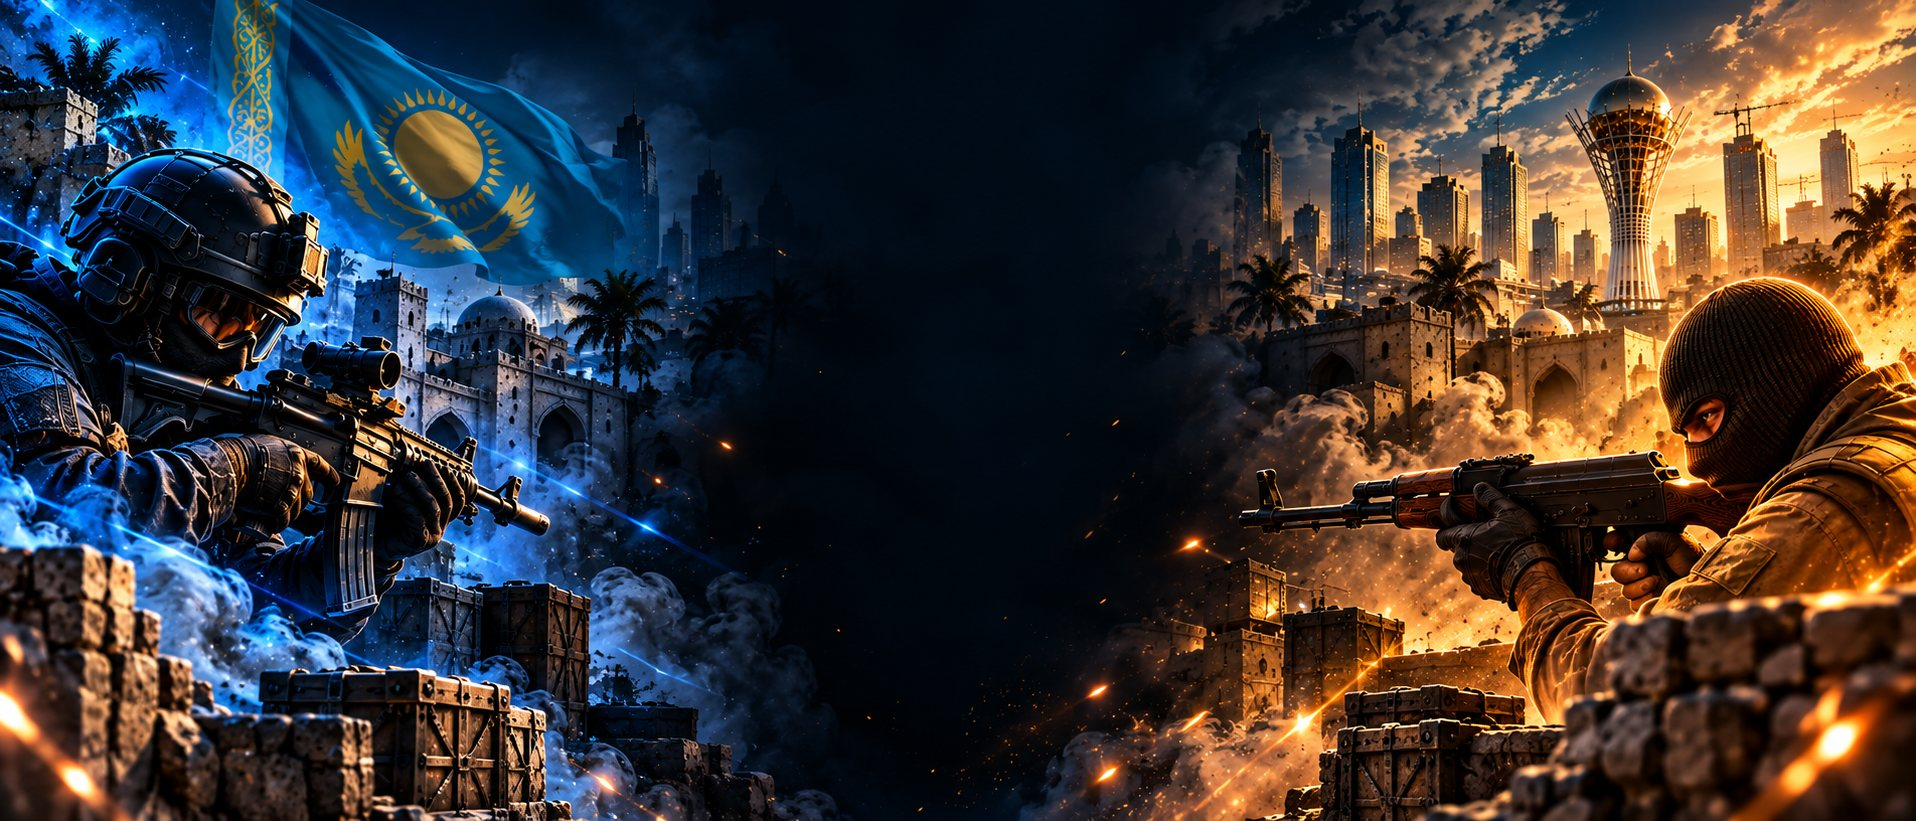
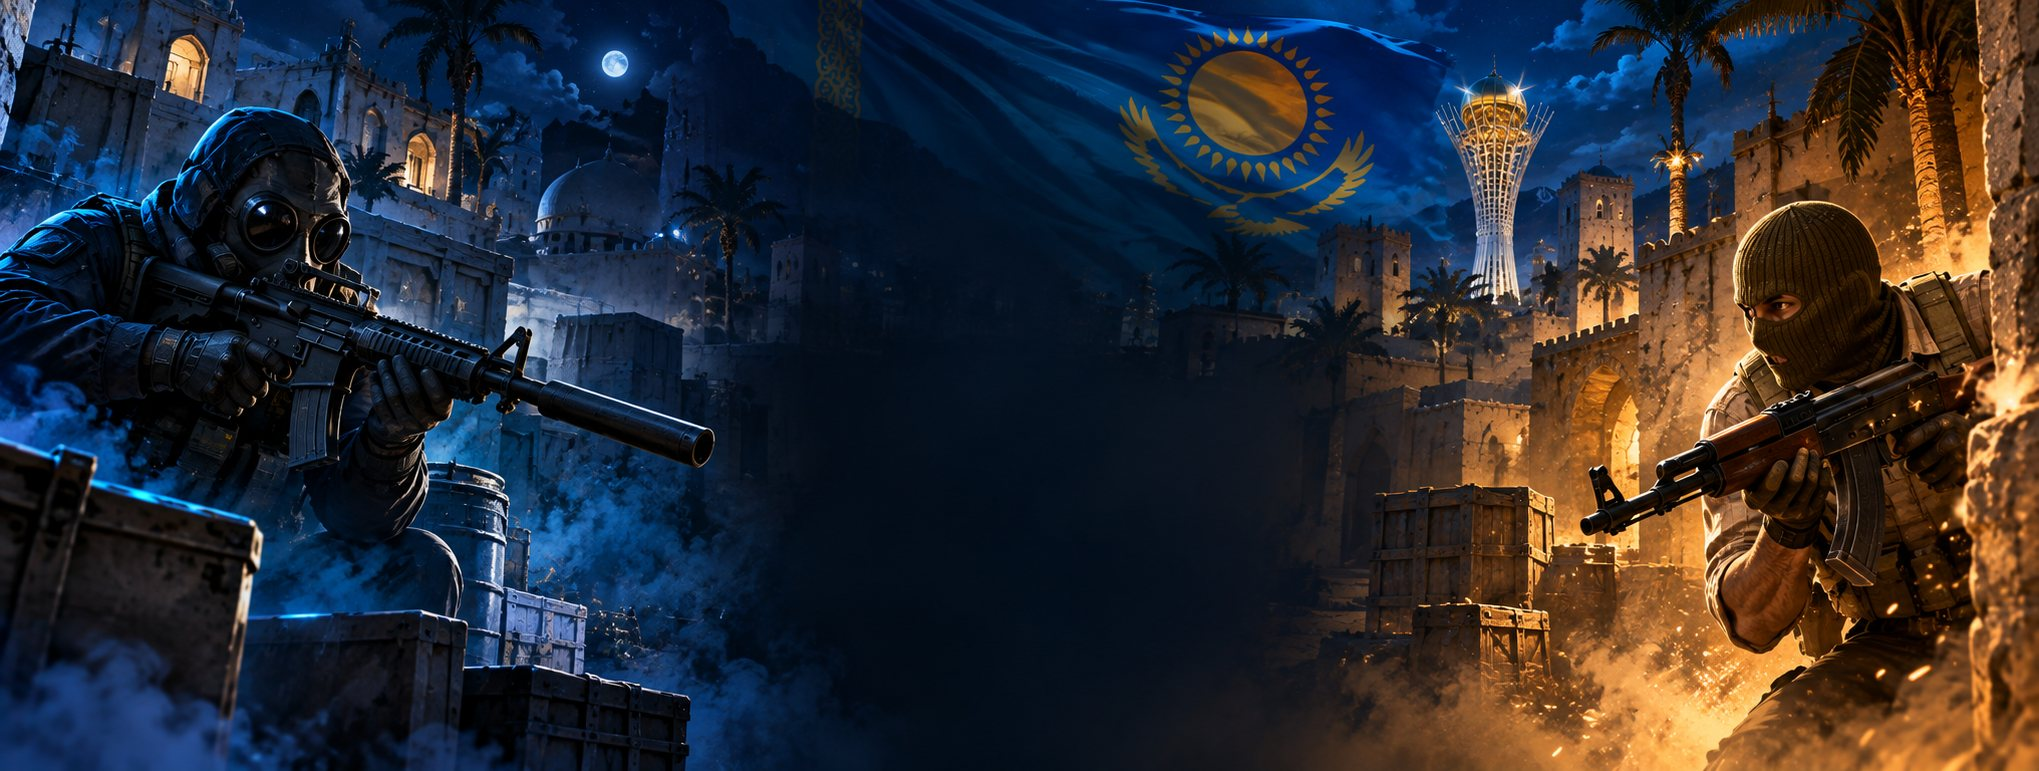
Add files via upload

diff --git a/admin.html b/admin.html
@@ -575,7 +575,7 @@ html { scroll-padding-top: 76px; }
 body:not(.admin) { background: transparent; }
 html { background: #06111f; }
 .page-bg { position: fixed; inset: 0; z-index: -1; background: #06111f; overflow: hidden; pointer-events: none; }
-.page-bg::before { content: ""; position: absolute; left: 0; right: 0; top: 50%; height: max(calc(100vw * 0.4), 70vh); transform: translateY(-50%); background: var(--bg-d, url(bg.jpg)) center / cover no-repeat;
+.page-bg::before { content: ""; position: absolute; left: 0; right: 0; top: 50%; height: max(calc(100vw * 0.4), 70vh); transform: translateY(-50%); background: var(--bg-d, url(bg.jpg?v=3)) center / cover no-repeat;
   -webkit-mask-image: linear-gradient(transparent, #000 12%, #000 88%, transparent); mask-image: linear-gradient(transparent, #000 12%, #000 88%, transparent); }
 .page-bg::after { content: ""; position: absolute; inset: 0; background: linear-gradient(90deg, rgba(6,17,31,0) 0%, rgba(6,17,31,.25) 22%, rgba(6,17,31,.5) 50%, rgba(6,17,31,.25) 78%, rgba(6,17,31,0) 100%); }
 body:not(.admin) .wrap { max-width: 980px; }
@@ -592,9 +592,9 @@ body:not(.admin) :is(.focus-card, .gtable, .tour, .match, .srow, .team-card, .pr
 @media (prefers-color-scheme: light) {
   :root:not([data-theme="dark"]) body:not(.admin) { --panel: rgba(255,255,255,.86); --panel-2: rgba(232,236,241,.9); --line: #d9dee5; }
   :root:not([data-theme="dark"]) .page-bg::after { background: rgba(238,241,244,.8); }
-  :root:not([data-theme="dark"]) .hero4 { background: #06111f url(bg.jpg) center / 100% auto no-repeat; }
+  :root:not([data-theme="dark"]) .hero4 { background: #06111f url(bg.jpg?v=3) center / 100% auto no-repeat; }
 }
-:root[data-theme="light"] .hero4 { background: #06111f url(bg.jpg) center / 100% auto no-repeat; }
+:root[data-theme="light"] .hero4 { background: #06111f url(bg.jpg?v=3) center / 100% auto no-repeat; }
 
 .hero4 { position: relative; min-height: calc(100svh - 61px); display: flex; align-items: center; color: #ece6d8; }
 .hero4-in { width: 100%; text-align: center; padding-top: 40px; padding-bottom: 48px; display: flex; flex-direction: column; align-items: center; }
@@ -764,7 +764,7 @@ body:not(.admin) .teams { grid-template-columns: repeat(auto-fill, minmax(280px,
 .h-cs { font-size: clamp(42px, 7vw, 106px); margin-top: .02em; }
 .h-sub { letter-spacing: .2em; }
 @media (max-width: 760px) {
-  .page-bg::before { background-image: var(--bg-m, var(--bg-d, url(bg.jpg))); background-position: 50% 50%; opacity: .75; }
+  .page-bg::before { background-image: var(--bg-m, var(--bg-d, url(bg.jpg?v=3))); background-position: 50% 50%; opacity: .75; }
   .hero4 { display: flex; min-height: calc(100svh - 55px); color: #ece6d8; }
   .hero4-in { padding-top: 22px; padding-bottom: 28px; }
   .hero4-in > .crown, .hero4-in > .h-sub, .hero4-in > .h-info, .hero4-in > .h-total, .hero4-in > .orgs { display: flex; }
@@ -806,14 +806,14 @@ body:not(.admin) .site-top-in { max-width: 1240px; }
 .hero-mark { width: 92px; height: auto; filter: drop-shadow(0 0 22px rgba(232,184,78,.28)); margin-bottom: 4px; }
 .hero4-in > .hero-mark { animation-delay: 0s; }
 @media (max-width: 760px) {
-  .page-bg::before { background-image: var(--bg-m, url(bg-m.jpg)); background-position: 50% 50%; opacity: 1; height: 100%; top: 0; transform: none; }
+  .page-bg::before { background-image: var(--bg-m, url(bg-m.jpg?v=3)); background-position: 50% 50%; opacity: 1; height: 100%; top: 0; transform: none; }
   .hero-mark { width: 64px; }
   .brand-logo img { width: 30px; height: 30px; }
 }
 
 /* ---------- Дневной режим с отдельными фонами ---------- */
 :root[data-theme="light"] .page-bg { background: #e9eef3; }
-:root[data-theme="light"] .page-bg::before { background-image: var(--bg-dd, url(bg-day.jpg)); height: max(calc(100vw * 0.451), 70vh); -webkit-mask-image: linear-gradient(transparent, #000 8%, #000 92%, transparent); mask-image: linear-gradient(transparent, #000 8%, #000 92%, transparent); }
+:root[data-theme="light"] .page-bg::before { background-image: var(--bg-dd, url(bg-day.jpg?v=3)); height: max(calc(100vw * 0.451), 70vh); -webkit-mask-image: linear-gradient(transparent, #000 8%, #000 92%, transparent); mask-image: linear-gradient(transparent, #000 8%, #000 92%, transparent); }
 :root[data-theme="light"] .page-bg::after { background: linear-gradient(90deg, rgba(255,255,255,0) 0%, rgba(255,255,255,.12) 30%, rgba(255,255,255,.22) 50%, rgba(255,255,255,.12) 70%, rgba(255,255,255,0) 100%); }
 :root[data-theme="light"] body:not(.admin) { --panel: rgba(255,255,255,.94); --panel-2: rgba(236,240,245,.95); }
 :root[data-theme="light"] .hero4 { color: #0f2742; background: none; }
@@ -842,7 +842,7 @@ body:not(.admin) .site-top-in { max-width: 1240px; }
 :root[data-theme="light"] .edge { stroke: #5d6b7c; }
 @media (prefers-color-scheme: light) {
 :root:not([data-theme="dark"]) .page-bg { background: #e9eef3; }
-:root:not([data-theme="dark"]) .page-bg::before { background-image: var(--bg-dd, url(bg-day.jpg)); height: max(calc(100vw * 0.451), 70vh); -webkit-mask-image: linear-gradient(transparent, #000 8%, #000 92%, transparent); mask-image: linear-gradient(transparent, #000 8%, #000 92%, transparent); }
+:root:not([data-theme="dark"]) .page-bg::before { background-image: var(--bg-dd, url(bg-day.jpg?v=3)); height: max(calc(100vw * 0.451), 70vh); -webkit-mask-image: linear-gradient(transparent, #000 8%, #000 92%, transparent); mask-image: linear-gradient(transparent, #000 8%, #000 92%, transparent); }
 :root:not([data-theme="dark"]) .page-bg::after { background: linear-gradient(90deg, rgba(255,255,255,0) 0%, rgba(255,255,255,.12) 30%, rgba(255,255,255,.22) 50%, rgba(255,255,255,.12) 70%, rgba(255,255,255,0) 100%); }
 :root:not([data-theme="dark"]) body:not(.admin) { --panel: rgba(255,255,255,.94); --panel-2: rgba(236,240,245,.95); }
 :root:not([data-theme="dark"]) .hero4 { color: #0f2742; background: none; }
@@ -871,15 +871,18 @@ body:not(.admin) .site-top-in { max-width: 1240px; }
 :root:not([data-theme="dark"]) .edge { stroke: #5d6b7c; }
 }
 @media (max-width: 760px) {
-:root[data-theme="light"] .page-bg::before { background-image: var(--bg-dm, url(bg-day-m.jpg)); height: 100%; top: 0; transform: none; -webkit-mask-image: none; mask-image: none; }
+:root[data-theme="light"] .page-bg::before { background-image: var(--bg-dm, url(bg-day-m.jpg?v=3)); height: 100%; top: 0; transform: none; -webkit-mask-image: none; mask-image: none; }
 :root[data-theme="light"] .hero4 { color: #0f2742; }
 :root[data-theme="light"] .hero4 .btn.ghost { color: #0f2742; background: rgba(255,255,255,.85); }
 }
 @media (max-width: 760px) and (prefers-color-scheme: light) {
-:root:not([data-theme="dark"]) .page-bg::before { background-image: var(--bg-dm, url(bg-day-m.jpg)); height: 100%; top: 0; transform: none; -webkit-mask-image: none; mask-image: none; }
+:root:not([data-theme="dark"]) .page-bg::before { background-image: var(--bg-dm, url(bg-day-m.jpg?v=3)); height: 100%; top: 0; transform: none; -webkit-mask-image: none; mask-image: none; }
 :root:not([data-theme="dark"]) .hero4 { color: #0f2742; }
 :root:not([data-theme="dark"]) .hero4 .btn.ghost { color: #0f2742; background: rgba(255,255,255,.85); }
 }
+
+/* новые ночные фоны: пропорция 2.645 */
+.page-bg::before { height: max(calc(100vw * 0.378), 70vh); }
 
 </style>
 </head>
@@ -927,13 +930,13 @@ body:not(.admin) .site-top-in { max-width: 1240px; }
       <p class="lead">Фон без текста, на котором стоит весь сайт: горизонтальный для компьютера (лучше 21:9 или 16:9, от 2560 пикселей в ширину), вертикальный для телефона (9:16). Выберите файл и нажмите «Загрузить»: фон сменится у всех зрителей. «Вернуть стандартный» показывает нынешний фон с CT и T.</p>
       <p class="note" style="margin:0 0 8px">Ночной режим</p>
       <div class="media-grid">
-        <div class="card media-card"><label class="f">Компьютер, горизонтальный</label><img id="mPrevD" src="bg.jpg" alt="Ночной фон для компьютера"><p class="note" id="mInfoD"></p><input type="file" id="mFileD" accept="image/png,image/jpeg,image/webp"><div class="row-actions"><button class="btn" type="button" data-up="desktop">Загрузить</button><button class="btn ghost" type="button" data-reset="desktop">Вернуть стандартный</button></div></div>
-        <div class="card media-card"><label class="f">Телефон, вертикальный</label><img id="mPrevM" src="bg-m.jpg" alt="Ночной фон для телефона"><p class="note" id="mInfoM"></p><input type="file" id="mFileM" accept="image/png,image/jpeg,image/webp"><div class="row-actions"><button class="btn" type="button" data-up="mobile">Загрузить</button><button class="btn ghost" type="button" data-reset="mobile">Вернуть стандартный</button></div></div>
+        <div class="card media-card"><label class="f">Компьютер, горизонтальный</label><img id="mPrevD" src="bg.jpg?v=3" alt="Ночной фон для компьютера"><p class="note" id="mInfoD"></p><input type="file" id="mFileD" accept="image/png,image/jpeg,image/webp"><div class="row-actions"><button class="btn" type="button" data-up="desktop">Загрузить</button><button class="btn ghost" type="button" data-reset="desktop">Вернуть стандартный</button></div></div>
+        <div class="card media-card"><label class="f">Телефон, вертикальный</label><img id="mPrevM" src="bg-m.jpg?v=3" alt="Ночной фон для телефона"><p class="note" id="mInfoM"></p><input type="file" id="mFileM" accept="image/png,image/jpeg,image/webp"><div class="row-actions"><button class="btn" type="button" data-up="mobile">Загрузить</button><button class="btn ghost" type="button" data-reset="mobile">Вернуть стандартный</button></div></div>
       </div>
       <p class="note" style="margin:18px 0 8px">Дневной режим</p>
       <div class="media-grid">
-        <div class="card media-card"><label class="f">Компьютер, горизонтальный</label><img id="mPrevDD" src="bg-day.jpg" alt="Дневной фон для компьютера"><p class="note" id="mInfoDD"></p><input type="file" id="mFileDD" accept="image/png,image/jpeg,image/webp"><div class="row-actions"><button class="btn" type="button" data-up="dayDesktop">Загрузить</button><button class="btn ghost" type="button" data-reset="dayDesktop">Вернуть стандартный</button></div></div>
-        <div class="card media-card"><label class="f">Телефон, вертикальный</label><img id="mPrevDM" src="bg-day-m.jpg" alt="Дневной фон для телефона"><p class="note" id="mInfoDM"></p><input type="file" id="mFileDM" accept="image/png,image/jpeg,image/webp"><div class="row-actions"><button class="btn" type="button" data-up="dayMobile">Загрузить</button><button class="btn ghost" type="button" data-reset="dayMobile">Вернуть стандартный</button></div></div>
+        <div class="card media-card"><label class="f">Компьютер, горизонтальный</label><img id="mPrevDD" src="bg-day.jpg?v=3" alt="Дневной фон для компьютера"><p class="note" id="mInfoDD"></p><input type="file" id="mFileDD" accept="image/png,image/jpeg,image/webp"><div class="row-actions"><button class="btn" type="button" data-up="dayDesktop">Загрузить</button><button class="btn ghost" type="button" data-reset="dayDesktop">Вернуть стандартный</button></div></div>
+        <div class="card media-card"><label class="f">Телефон, вертикальный</label><img id="mPrevDM" src="bg-day-m.jpg?v=3" alt="Дневной фон для телефона"><p class="note" id="mInfoDM"></p><input type="file" id="mFileDM" accept="image/png,image/jpeg,image/webp"><div class="row-actions"><button class="btn" type="button" data-up="dayMobile">Загрузить</button><button class="btn ghost" type="button" data-reset="dayMobile">Вернуть стандартный</button></div></div>
       </div>
     </section>
 
@@ -1591,8 +1594,8 @@ body:not(.admin) .site-top-in { max-width: 1240px; }
   });
 
   /* ---------- Постеры ---------- */
-  const MEDIA = { desktop: { key: "bg_desktop", max: 3200, file: "mFileD", prev: "mPrevD", info: "mInfoD", def: "bg.jpg" }, mobile: { key: "bg_mobile", max: 1440, file: "mFileM", prev: "mPrevM", info: "mInfoM", def: "bg-m.jpg" },
-    dayDesktop: { key: "bg_day_desktop", max: 3200, file: "mFileDD", prev: "mPrevDD", info: "mInfoDD", def: "bg-day.jpg" }, dayMobile: { key: "bg_day_mobile", max: 1440, file: "mFileDM", prev: "mPrevDM", info: "mInfoDM", def: "bg-day-m.jpg" } };
+  const MEDIA = { desktop: { key: "bg_desktop", max: 3200, file: "mFileD", prev: "mPrevD", info: "mInfoD", def: "bg.jpg?v=3" }, mobile: { key: "bg_mobile", max: 1440, file: "mFileM", prev: "mPrevM", info: "mInfoM", def: "bg-m.jpg?v=3" },
+    dayDesktop: { key: "bg_day_desktop", max: 3200, file: "mFileDD", prev: "mPrevDD", info: "mInfoDD", def: "bg-day.jpg?v=3" }, dayMobile: { key: "bg_day_mobile", max: 1440, file: "mFileDM", prev: "mPrevDM", info: "mInfoDM", def: "bg-day-m.jpg?v=3" } };
   function loadImage(file) {
     return new Promise((ok, fail) => {
       const url = URL.createObjectURL(file), img = new Image();

diff --git a/index.html b/index.html
@@ -583,7 +583,7 @@ html { scroll-padding-top: 76px; }
 body:not(.admin) { background: transparent; }
 html { background: #06111f; }
 .page-bg { position: fixed; inset: 0; z-index: -1; background: #06111f; overflow: hidden; pointer-events: none; }
-.page-bg::before { content: ""; position: absolute; left: 0; right: 0; top: 50%; height: max(calc(100vw * 0.4), 70vh); transform: translateY(-50%); background: var(--bg-d, url(bg.jpg)) center / cover no-repeat;
+.page-bg::before { content: ""; position: absolute; left: 0; right: 0; top: 50%; height: max(calc(100vw * 0.4), 70vh); transform: translateY(-50%); background: var(--bg-d, url(bg.jpg?v=3)) center / cover no-repeat;
   -webkit-mask-image: linear-gradient(transparent, #000 12%, #000 88%, transparent); mask-image: linear-gradient(transparent, #000 12%, #000 88%, transparent); }
 .page-bg::after { content: ""; position: absolute; inset: 0; background: linear-gradient(90deg, rgba(6,17,31,0) 0%, rgba(6,17,31,.25) 22%, rgba(6,17,31,.5) 50%, rgba(6,17,31,.25) 78%, rgba(6,17,31,0) 100%); }
 body:not(.admin) .wrap { max-width: 980px; }
@@ -600,9 +600,9 @@ body:not(.admin) :is(.focus-card, .gtable, .tour, .match, .srow, .team-card, .pr
 @media (prefers-color-scheme: light) {
   :root:not([data-theme="dark"]) body:not(.admin) { --panel: rgba(255,255,255,.86); --panel-2: rgba(232,236,241,.9); --line: #d9dee5; }
   :root:not([data-theme="dark"]) .page-bg::after { background: rgba(238,241,244,.8); }
-  :root:not([data-theme="dark"]) .hero4 { background: #06111f url(bg.jpg) center / 100% auto no-repeat; }
+  :root:not([data-theme="dark"]) .hero4 { background: #06111f url(bg.jpg?v=3) center / 100% auto no-repeat; }
 }
-:root[data-theme="light"] .hero4 { background: #06111f url(bg.jpg) center / 100% auto no-repeat; }
+:root[data-theme="light"] .hero4 { background: #06111f url(bg.jpg?v=3) center / 100% auto no-repeat; }
 
 .hero4 { position: relative; min-height: calc(100svh - 61px); display: flex; align-items: center; color: #ece6d8; }
 .hero4-in { width: 100%; text-align: center; padding-top: 40px; padding-bottom: 48px; display: flex; flex-direction: column; align-items: center; }
@@ -772,7 +772,7 @@ body:not(.admin) .teams { grid-template-columns: repeat(auto-fill, minmax(280px,
 .h-cs { font-size: clamp(42px, 7vw, 106px); margin-top: .02em; }
 .h-sub { letter-spacing: .2em; }
 @media (max-width: 760px) {
-  .page-bg::before { background-image: var(--bg-m, var(--bg-d, url(bg.jpg))); background-position: 50% 50%; opacity: .75; }
+  .page-bg::before { background-image: var(--bg-m, var(--bg-d, url(bg.jpg?v=3))); background-position: 50% 50%; opacity: .75; }
   .hero4 { display: flex; min-height: calc(100svh - 55px); color: #ece6d8; }
   .hero4-in { padding-top: 22px; padding-bottom: 28px; }
   .hero4-in > .crown, .hero4-in > .h-sub, .hero4-in > .h-info, .hero4-in > .h-total, .hero4-in > .orgs { display: flex; }
@@ -814,14 +814,14 @@ body:not(.admin) .site-top-in { max-width: 1240px; }
 .hero-mark { width: 92px; height: auto; filter: drop-shadow(0 0 22px rgba(232,184,78,.28)); margin-bottom: 4px; }
 .hero4-in > .hero-mark { animation-delay: 0s; }
 @media (max-width: 760px) {
-  .page-bg::before { background-image: var(--bg-m, url(bg-m.jpg)); background-position: 50% 50%; opacity: 1; height: 100%; top: 0; transform: none; }
+  .page-bg::before { background-image: var(--bg-m, url(bg-m.jpg?v=3)); background-position: 50% 50%; opacity: 1; height: 100%; top: 0; transform: none; }
   .hero-mark { width: 64px; }
   .brand-logo img { width: 30px; height: 30px; }
 }
 
 /* ---------- Дневной режим с отдельными фонами ---------- */
 :root[data-theme="light"] .page-bg { background: #e9eef3; }
-:root[data-theme="light"] .page-bg::before { background-image: var(--bg-dd, url(bg-day.jpg)); height: max(calc(100vw * 0.451), 70vh); -webkit-mask-image: linear-gradient(transparent, #000 8%, #000 92%, transparent); mask-image: linear-gradient(transparent, #000 8%, #000 92%, transparent); }
+:root[data-theme="light"] .page-bg::before { background-image: var(--bg-dd, url(bg-day.jpg?v=3)); height: max(calc(100vw * 0.451), 70vh); -webkit-mask-image: linear-gradient(transparent, #000 8%, #000 92%, transparent); mask-image: linear-gradient(transparent, #000 8%, #000 92%, transparent); }
 :root[data-theme="light"] .page-bg::after { background: linear-gradient(90deg, rgba(255,255,255,0) 0%, rgba(255,255,255,.12) 30%, rgba(255,255,255,.22) 50%, rgba(255,255,255,.12) 70%, rgba(255,255,255,0) 100%); }
 :root[data-theme="light"] body:not(.admin) { --panel: rgba(255,255,255,.94); --panel-2: rgba(236,240,245,.95); }
 :root[data-theme="light"] .hero4 { color: #0f2742; background: none; }
@@ -850,7 +850,7 @@ body:not(.admin) .site-top-in { max-width: 1240px; }
 :root[data-theme="light"] .edge { stroke: #5d6b7c; }
 @media (prefers-color-scheme: light) {
 :root:not([data-theme="dark"]) .page-bg { background: #e9eef3; }
-:root:not([data-theme="dark"]) .page-bg::before { background-image: var(--bg-dd, url(bg-day.jpg)); height: max(calc(100vw * 0.451), 70vh); -webkit-mask-image: linear-gradient(transparent, #000 8%, #000 92%, transparent); mask-image: linear-gradient(transparent, #000 8%, #000 92%, transparent); }
+:root:not([data-theme="dark"]) .page-bg::before { background-image: var(--bg-dd, url(bg-day.jpg?v=3)); height: max(calc(100vw * 0.451), 70vh); -webkit-mask-image: linear-gradient(transparent, #000 8%, #000 92%, transparent); mask-image: linear-gradient(transparent, #000 8%, #000 92%, transparent); }
 :root:not([data-theme="dark"]) .page-bg::after { background: linear-gradient(90deg, rgba(255,255,255,0) 0%, rgba(255,255,255,.12) 30%, rgba(255,255,255,.22) 50%, rgba(255,255,255,.12) 70%, rgba(255,255,255,0) 100%); }
 :root:not([data-theme="dark"]) body:not(.admin) { --panel: rgba(255,255,255,.94); --panel-2: rgba(236,240,245,.95); }
 :root:not([data-theme="dark"]) .hero4 { color: #0f2742; background: none; }
@@ -879,15 +879,18 @@ body:not(.admin) .site-top-in { max-width: 1240px; }
 :root:not([data-theme="dark"]) .edge { stroke: #5d6b7c; }
 }
 @media (max-width: 760px) {
-:root[data-theme="light"] .page-bg::before { background-image: var(--bg-dm, url(bg-day-m.jpg)); height: 100%; top: 0; transform: none; -webkit-mask-image: none; mask-image: none; }
+:root[data-theme="light"] .page-bg::before { background-image: var(--bg-dm, url(bg-day-m.jpg?v=3)); height: 100%; top: 0; transform: none; -webkit-mask-image: none; mask-image: none; }
 :root[data-theme="light"] .hero4 { color: #0f2742; }
 :root[data-theme="light"] .hero4 .btn.ghost { color: #0f2742; background: rgba(255,255,255,.85); }
 }
 @media (max-width: 760px) and (prefers-color-scheme: light) {
-:root:not([data-theme="dark"]) .page-bg::before { background-image: var(--bg-dm, url(bg-day-m.jpg)); height: 100%; top: 0; transform: none; -webkit-mask-image: none; mask-image: none; }
+:root:not([data-theme="dark"]) .page-bg::before { background-image: var(--bg-dm, url(bg-day-m.jpg?v=3)); height: 100%; top: 0; transform: none; -webkit-mask-image: none; mask-image: none; }
 :root:not([data-theme="dark"]) .hero4 { color: #0f2742; }
 :root:not([data-theme="dark"]) .hero4 .btn.ghost { color: #0f2742; background: rgba(255,255,255,.85); }
 }
+
+/* новые ночные фоны: пропорция 2.645 */
+.page-bg::before { height: max(calc(100vw * 0.378), 70vh); }
 
 </style>
 </head>
